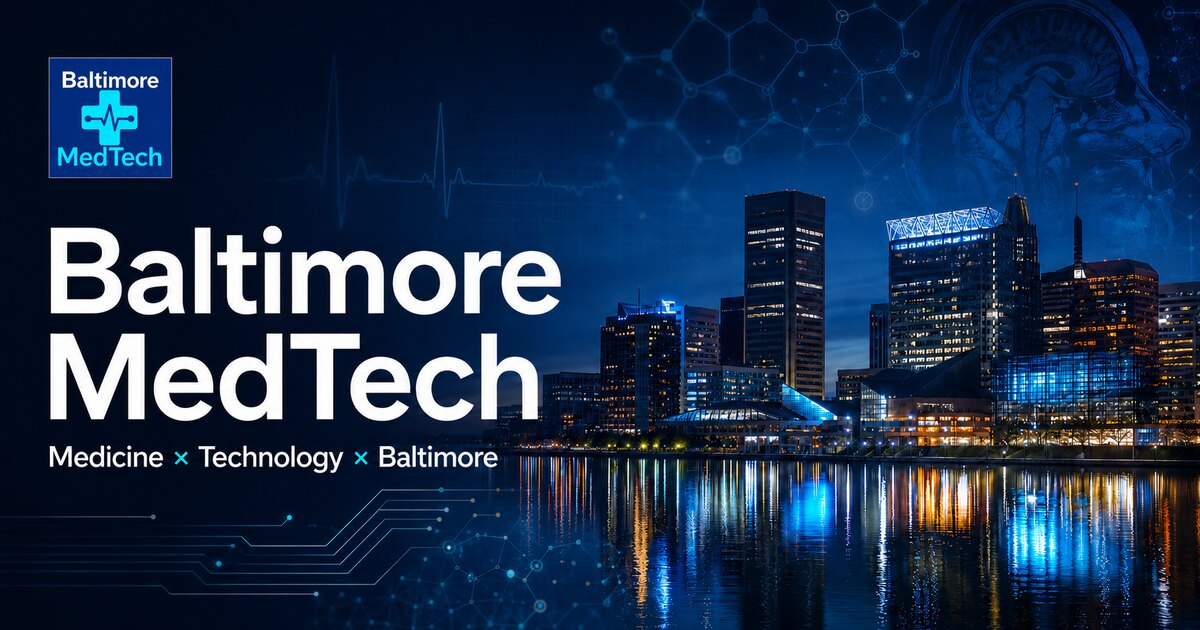
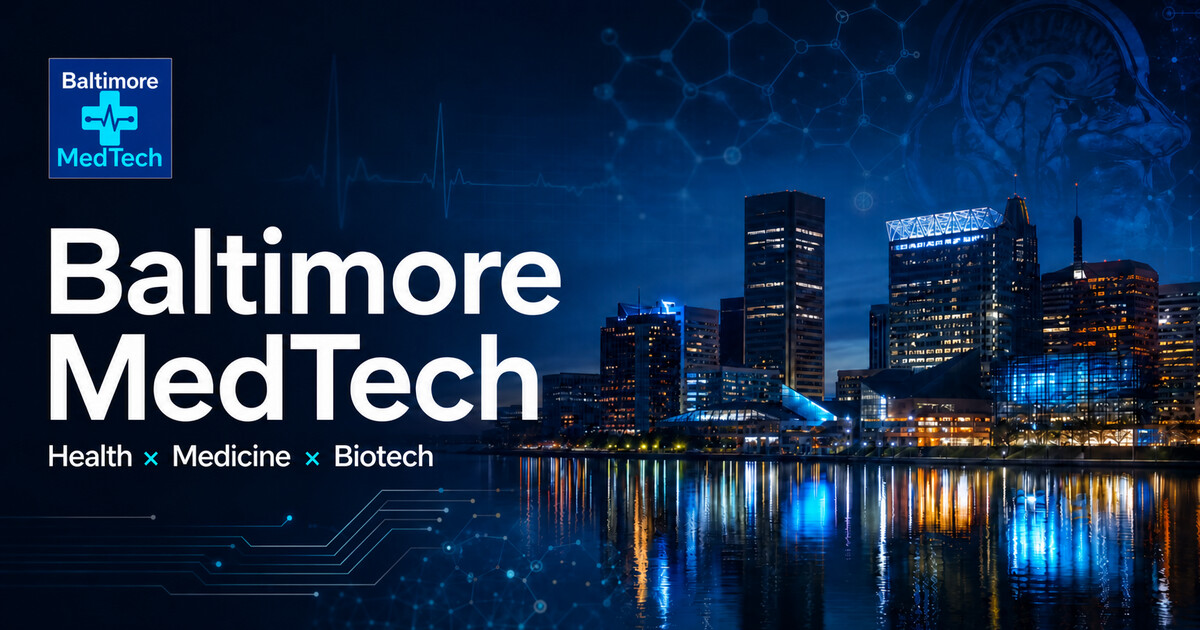
Brand MedTech community access and display original event pictures
[skip deploy] Release verified and deployed through the Docker Cloudflare tooling.

diff --git a/index.html b/index.html
@@ -6,12 +6,12 @@
     <title>Baltimore MedTech</title>
     <meta
       name="description"
-      content="Baltimore MedTech connects medicine, technology, research, and entrepreneurship to strengthen Baltimore's medical community and improve care."
+      content="Baltimore MedTech connects health, medicine, and biotech to strengthen Baltimore's medical community and improve care."
     />
     <meta property="og:title" content="Baltimore MedTech" />
     <meta
       property="og:description"
-      content="A recurring meetup connecting medicine, technology, research, and entrepreneurship in Baltimore."
+      content="A recurring meetup connecting health, medicine, and biotech in Baltimore."
     />
     <meta property="og:type" content="website" />
     <meta property="og:url" content="https://medtech.social/" />
@@ -21,10 +21,10 @@
     <meta property="og:image:type" content="image/jpeg" />
     <meta property="og:image:width" content="1200" />
     <meta property="og:image:height" content="630" />
-    <meta property="og:image:alt" content="Baltimore MedTech — Medicine × Technology × Baltimore" />
+    <meta property="og:image:alt" content="Baltimore MedTech — Health × Medicine × Biotech" />
     <meta name="twitter:card" content="summary_large_image" />
     <meta name="twitter:title" content="Baltimore MedTech" />
-    <meta name="twitter:description" content="A recurring meetup connecting medicine, technology, research, and entrepreneurship in Baltimore." />
+    <meta name="twitter:description" content="A recurring meetup connecting health, medicine, and biotech in Baltimore." />
     <meta name="twitter:image" content="https://medtech.social/assets/images/baltimore-medtech-social-preview-v2.jpg" />
     <link rel="icon" type="image/jpeg" href="/assets/images/baltimore-medtech-logo-square.jpg" />
     <link rel="apple-touch-icon" href="/assets/images/baltimore-medtech-logo-square.jpg" />
@@ -50,7 +50,7 @@
           <img src="/assets/images/baltimore-medtech-logo-square.jpg" alt="" />
           <span class="brand-copy">
             <strong>Baltimore MedTech</strong>
-            <small>Regional health innovation</small>
+            <small>Health × Medicine × Biotech</small>
           </span>
         </a>
         <button class="nav-toggle" type="button" aria-expanded="false" aria-controls="primary-nav">
@@ -72,7 +72,7 @@
             <svg viewBox="0 0 24 24" aria-hidden="true"><path d="M20.5 15.2A8.5 8.5 0 0 1 8.8 3.5 8.5 8.5 0 1 0 20.5 15.2Z"/></svg>
           </button>
         </div>
-          <a class="button nav-cta" href="https://codecollective.us/p/?portalProfile=baltimore-medtech">Join / Login</a>
+          <a class="button nav-cta" href="https://community.medtech.social/p/users/login">Member login</a>
         </nav>
       </div>
     </header>
@@ -86,7 +86,7 @@
         />
         <div class="hero-grid">
           <div class="hero-copy">
-            <p class="eyebrow">Medicine <span>&times;</span> Technology <span>&times;</span> Baltimore</p>
+            <p class="eyebrow">Health <span>&times;</span> Medicine <span>&times;</span> Biotech</p>
             <h1 id="hero-title">Better care starts with a better-connected city.</h1>
             <p>
               Baltimore MedTech brings clinicians, builders, researchers, and founders into one regional community—so
@@ -242,7 +242,7 @@
       <div class="site-footer-grid">
         <div>
           <a class="footer-brand" href="/">Baltimore MedTech</a>
-          <p>Connecting medicine, technology, research, and entrepreneurship across the Baltimore region.</p>
+          <p>Connecting health, medicine, and biotech across the Baltimore region.</p>
         </div>
         <div class="footer-links" aria-label="Footer navigation">
           <a href="/calendar.html">Calendar</a>
@@ -251,8 +251,8 @@
           <a href="#regional-glossary">Regional glossary</a>
         </div>
         <div class="footer-action">
-          <span>Already part of the community?</span>
-          <a href="https://codecollective.us/p/?portalProfile=baltimore-medtech">Join or log in <span aria-hidden="true">&nearr;</span></a>
+          <span>Your next connection starts here.</span>
+          <a href="https://community.medtech.social/p/users/register">Join Baltimore MedTech <span aria-hidden="true">&nearr;</span></a>
         </div>
       </div>
     </footer>

diff --git a/datasets.html b/datasets.html
@@ -15,8 +15,8 @@
 <body class="dataset-body">
 <a class="skip-link" href="#main-content">Skip to main content</a>
 <header class="site-header"><div class="site-header-inner">
-  <a class="brand" href="/" aria-label="Baltimore MedTech home"><img src="/assets/images/baltimore-medtech-logo-square.jpg" alt="" /><span class="brand-copy"><strong>Baltimore MedTech</strong><small>Regional health innovation</small></span></a>
-  <nav aria-label="Primary navigation"><a href="/calendar.html">Calendar</a><a href="/map.html">Map</a><a href="/taxonomy.html">Medical atlas</a><a aria-current="page" href="/datasets.html">Data sheets</a><a class="button nav-cta" href="https://codecollective.us/p/?portalProfile=baltimore-medtech">Join / Login</a></nav>
+  <a class="brand" href="/" aria-label="Baltimore MedTech home"><img src="/assets/images/baltimore-medtech-logo-square.jpg" alt="" /><span class="brand-copy"><strong>Baltimore MedTech</strong><small>Health × Medicine × Biotech</small></span></a>
+  <nav aria-label="Primary navigation"><a href="/calendar.html">Calendar</a><a href="/map.html">Map</a><a href="/taxonomy.html">Medical atlas</a><a aria-current="page" href="/datasets.html">Data sheets</a><a class="button nav-cta" href="https://community.medtech.social/p/users/login">Member login</a></nav>
 </div></header>
 
 <main class="dataset-catalog-page" id="main-content">
@@ -47,6 +47,6 @@
     <article><span>SNAPSHOT</span><h3>Versioned analytical inputs</h3><p>The Medical Science Field Atlas, standards indexes, strategy metrics, need-gap model, and allied-care extract remain reproducible repository assets with their own sheets.</p></article>
   </section>
 </main>
-<footer class="site-footer"><div class="site-footer-grid"><div><a class="footer-brand" href="/">Baltimore MedTech</a><p>Connecting medicine, technology, research, and entrepreneurship across Baltimore.</p></div><div class="footer-links"><a href="/datasets/medtech-meta-index.html">MedTech Meta Index</a><a href="/datasets.html">Data workbook</a><a href="/taxonomy.html">Medical Science Atlas</a><a href="/need-availability-distortions.html">Need gaps</a></div><div class="footer-action"><span>Trace every strategic claim back to a row and source.</span><a href="https://codecollective.us/p/?portalProfile=baltimore-medtech">Join the community <span aria-hidden="true">↗</span></a></div></div></footer>
+<footer class="site-footer"><div class="site-footer-grid"><div><a class="footer-brand" href="/">Baltimore MedTech</a><p>Connecting health, medicine, and biotech across Baltimore.</p></div><div class="footer-links"><a href="/datasets/medtech-meta-index.html">MedTech Meta Index</a><a href="/datasets.html">Data workbook</a><a href="/taxonomy.html">Medical Science Atlas</a><a href="/need-availability-distortions.html">Need gaps</a></div><div class="footer-action"><span>Trace every strategic claim back to a row and source.</span><a href="https://community.medtech.social/p/users/register">Join Baltimore MedTech <span aria-hidden="true">↗</span></a></div></div></footer>
 </body>
 </html>

diff --git a/datasets/allied-care-teams.html b/datasets/allied-care-teams.html
@@ -15,8 +15,8 @@
 <body class="dataset-body dataset-sheet-body">
 <a class="skip-link" href="#main-content">Skip to main content</a>
 <header class="site-header"><div class="site-header-inner">
-  <a class="brand" href="/" aria-label="Baltimore MedTech home"><img src="/assets/images/baltimore-medtech-logo-square.jpg" alt="" /><span class="brand-copy"><strong>Baltimore MedTech</strong><small>Regional health innovation</small></span></a>
-  <nav aria-label="Primary navigation"><a href="/calendar.html">Calendar</a><a href="/map.html">Map</a><a href="/taxonomy.html">Medical atlas</a><a aria-current="page" href="/datasets.html">Data sheets</a><a class="button nav-cta" href="https://codecollective.us/p/?portalProfile=baltimore-medtech">Join / Login</a></nav>
+  <a class="brand" href="/" aria-label="Baltimore MedTech home"><img src="/assets/images/baltimore-medtech-logo-square.jpg" alt="" /><span class="brand-copy"><strong>Baltimore MedTech</strong><small>Health × Medicine × Biotech</small></span></a>
+  <nav aria-label="Primary navigation"><a href="/calendar.html">Calendar</a><a href="/map.html">Map</a><a href="/taxonomy.html">Medical atlas</a><a aria-current="page" href="/datasets.html">Data sheets</a><a class="button nav-cta" href="https://community.medtech.social/p/users/login">Member login</a></nav>
 </div></header>
 
 <main class="dataset-sheet-page" id="main-content">
@@ -49,6 +49,6 @@
     <div class="dataset-sheet-tabs dataset-sheet-tabs-bottom"><a href="/datasets.html">Workbook index</a><span class="is-selected">Current dataset</span><a href="/need-availability-distortions.html">Need gaps</a></div>
   </section>
 </main>
-<footer class="site-footer"><div class="site-footer-grid"><div><a class="footer-brand" href="/">Baltimore MedTech</a><p>Connecting medicine, technology, research, and entrepreneurship across Baltimore.</p></div><div class="footer-links"><a href="/datasets.html">Data workbook</a><a href="/taxonomy.html">Medical atlas</a><a href="/need-availability-distortions.html">Need gaps</a></div><div class="footer-action"><span>Trace every strategic claim back to a row and source.</span><a href="https://codecollective.us/p/?portalProfile=baltimore-medtech">Join the community <span aria-hidden="true">↗</span></a></div></div></footer>
+<footer class="site-footer"><div class="site-footer-grid"><div><a class="footer-brand" href="/">Baltimore MedTech</a><p>Connecting health, medicine, and biotech across Baltimore.</p></div><div class="footer-links"><a href="/datasets.html">Data workbook</a><a href="/taxonomy.html">Medical atlas</a><a href="/need-availability-distortions.html">Need gaps</a></div><div class="footer-action"><span>Trace every strategic claim back to a row and source.</span><a href="https://community.medtech.social/p/users/register">Join Baltimore MedTech <span aria-hidden="true">↗</span></a></div></div></footer>
 </body>
 </html>

diff --git a/datasets/bls-oews-baltimore.html b/datasets/bls-oews-baltimore.html
@@ -15,8 +15,8 @@
 <body class="dataset-body dataset-sheet-body">
 <a class="skip-link" href="#main-content">Skip to main content</a>
 <header class="site-header"><div class="site-header-inner">
-  <a class="brand" href="/" aria-label="Baltimore MedTech home"><img src="/assets/images/baltimore-medtech-logo-square.jpg" alt="" /><span class="brand-copy"><strong>Baltimore MedTech</strong><small>Regional health innovation</small></span></a>
-  <nav aria-label="Primary navigation"><a href="/calendar.html">Calendar</a><a href="/map.html">Map</a><a href="/taxonomy.html">Medical atlas</a><a aria-current="page" href="/datasets.html">Data sheets</a><a class="button nav-cta" href="https://codecollective.us/p/?portalProfile=baltimore-medtech">Join / Login</a></nav>
+  <a class="brand" href="/" aria-label="Baltimore MedTech home"><img src="/assets/images/baltimore-medtech-logo-square.jpg" alt="" /><span class="brand-copy"><strong>Baltimore MedTech</strong><small>Health × Medicine × Biotech</small></span></a>
+  <nav aria-label="Primary navigation"><a href="/calendar.html">Calendar</a><a href="/map.html">Map</a><a href="/taxonomy.html">Medical atlas</a><a aria-current="page" href="/datasets.html">Data sheets</a><a class="button nav-cta" href="https://community.medtech.social/p/users/login">Member login</a></nav>
 </div></header>
 
 <main class="dataset-sheet-page" id="main-content">
@@ -49,6 +49,6 @@
     <div class="dataset-sheet-tabs dataset-sheet-tabs-bottom"><a href="/datasets.html">Workbook index</a><span class="is-selected">Current dataset</span><a href="/need-availability-distortions.html">Need gaps</a></div>
   </section>
 </main>
-<footer class="site-footer"><div class="site-footer-grid"><div><a class="footer-brand" href="/">Baltimore MedTech</a><p>Connecting medicine, technology, research, and entrepreneurship across Baltimore.</p></div><div class="footer-links"><a href="/datasets.html">Data workbook</a><a href="/taxonomy.html">Medical atlas</a><a href="/need-availability-distortions.html">Need gaps</a></div><div class="footer-action"><span>Trace every strategic claim back to a row and source.</span><a href="https://codecollective.us/p/?portalProfile=baltimore-medtech">Join the community <span aria-hidden="true">↗</span></a></div></div></footer>
+<footer class="site-footer"><div class="site-footer-grid"><div><a class="footer-brand" href="/">Baltimore MedTech</a><p>Connecting health, medicine, and biotech across Baltimore.</p></div><div class="footer-links"><a href="/datasets.html">Data workbook</a><a href="/taxonomy.html">Medical atlas</a><a href="/need-availability-distortions.html">Need gaps</a></div><div class="footer-action"><span>Trace every strategic claim back to a row and source.</span><a href="https://community.medtech.social/p/users/register">Join Baltimore MedTech <span aria-hidden="true">↗</span></a></div></div></footer>
 </body>
 </html>

diff --git a/datasets/clinical-code-systems.html b/datasets/clinical-code-systems.html
@@ -15,8 +15,8 @@
 <body class="dataset-body dataset-sheet-body">
 <a class="skip-link" href="#main-content">Skip to main content</a>
 <header class="site-header"><div class="site-header-inner">
-  <a class="brand" href="/" aria-label="Baltimore MedTech home"><img src="/assets/images/baltimore-medtech-logo-square.jpg" alt="" /><span class="brand-copy"><strong>Baltimore MedTech</strong><small>Regional health innovation</small></span></a>
-  <nav aria-label="Primary navigation"><a href="/calendar.html">Calendar</a><a href="/map.html">Map</a><a href="/taxonomy.html">Medical atlas</a><a aria-current="page" href="/datasets.html">Data sheets</a><a class="button nav-cta" href="https://codecollective.us/p/?portalProfile=baltimore-medtech">Join / Login</a></nav>
+  <a class="brand" href="/" aria-label="Baltimore MedTech home"><img src="/assets/images/baltimore-medtech-logo-square.jpg" alt="" /><span class="brand-copy"><strong>Baltimore MedTech</strong><small>Health × Medicine × Biotech</small></span></a>
+  <nav aria-label="Primary navigation"><a href="/calendar.html">Calendar</a><a href="/map.html">Map</a><a href="/taxonomy.html">Medical atlas</a><a aria-current="page" href="/datasets.html">Data sheets</a><a class="button nav-cta" href="https://community.medtech.social/p/users/login">Member login</a></nav>
 </div></header>
 
 <main class="dataset-sheet-page" id="main-content">
@@ -49,6 +49,6 @@
     <div class="dataset-sheet-tabs dataset-sheet-tabs-bottom"><a href="/datasets.html">Workbook index</a><span class="is-selected">Current dataset</span><a href="/need-availability-distortions.html">Need gaps</a></div>
   </section>
 </main>
-<footer class="site-footer"><div class="site-footer-grid"><div><a class="footer-brand" href="/">Baltimore MedTech</a><p>Connecting medicine, technology, research, and entrepreneurship across Baltimore.</p></div><div class="footer-links"><a href="/datasets.html">Data workbook</a><a href="/taxonomy.html">Medical atlas</a><a href="/need-availability-distortions.html">Need gaps</a></div><div class="footer-action"><span>Trace every strategic claim back to a row and source.</span><a href="https://codecollective.us/p/?portalProfile=baltimore-medtech">Join the community <span aria-hidden="true">↗</span></a></div></div></footer>
+<footer class="site-footer"><div class="site-footer-grid"><div><a class="footer-brand" href="/">Baltimore MedTech</a><p>Connecting health, medicine, and biotech across Baltimore.</p></div><div class="footer-links"><a href="/datasets.html">Data workbook</a><a href="/taxonomy.html">Medical atlas</a><a href="/need-availability-distortions.html">Need gaps</a></div><div class="footer-action"><span>Trace every strategic claim back to a row and source.</span><a href="https://community.medtech.social/p/users/register">Join Baltimore MedTech <span aria-hidden="true">↗</span></a></div></div></footer>
 </body>
 </html>

diff --git a/datasets/clinical-semantic-systems.html b/datasets/clinical-semantic-systems.html
@@ -15,8 +15,8 @@
 <body class="dataset-body dataset-sheet-body">
 <a class="skip-link" href="#main-content">Skip to main content</a>
 <header class="site-header"><div class="site-header-inner">
-  <a class="brand" href="/" aria-label="Baltimore MedTech home"><img src="/assets/images/baltimore-medtech-logo-square.jpg" alt="" /><span class="brand-copy"><strong>Baltimore MedTech</strong><small>Regional health innovation</small></span></a>
-  <nav aria-label="Primary navigation"><a href="/calendar.html">Calendar</a><a href="/map.html">Map</a><a href="/taxonomy.html">Medical atlas</a><a aria-current="page" href="/datasets.html">Data sheets</a><a class="button nav-cta" href="https://codecollective.us/p/?portalProfile=baltimore-medtech">Join / Login</a></nav>
+  <a class="brand" href="/" aria-label="Baltimore MedTech home"><img src="/assets/images/baltimore-medtech-logo-square.jpg" alt="" /><span class="brand-copy"><strong>Baltimore MedTech</strong><small>Health × Medicine × Biotech</small></span></a>
+  <nav aria-label="Primary navigation"><a href="/calendar.html">Calendar</a><a href="/map.html">Map</a><a href="/taxonomy.html">Medical atlas</a><a aria-current="page" href="/datasets.html">Data sheets</a><a class="button nav-cta" href="https://community.medtech.social/p/users/login">Member login</a></nav>
 </div></header>
 
 <main class="dataset-sheet-page" id="main-content">
@@ -49,6 +49,6 @@
     <div class="dataset-sheet-tabs dataset-sheet-tabs-bottom"><a href="/datasets.html">Workbook index</a><span class="is-selected">Current dataset</span><a href="/need-availability-distortions.html">Need gaps</a></div>
   </section>
 </main>
-<footer class="site-footer"><div class="site-footer-grid"><div><a class="footer-brand" href="/">Baltimore MedTech</a><p>Connecting medicine, technology, research, and entrepreneurship across Baltimore.</p></div><div class="footer-links"><a href="/datasets.html">Data workbook</a><a href="/taxonomy.html">Medical atlas</a><a href="/need-availability-distortions.html">Need gaps</a></div><div class="footer-action"><span>Trace every strategic claim back to a row and source.</span><a href="https://codecollective.us/p/?portalProfile=baltimore-medtech">Join the community <span aria-hidden="true">↗</span></a></div></div></footer>
+<footer class="site-footer"><div class="site-footer-grid"><div><a class="footer-brand" href="/">Baltimore MedTech</a><p>Connecting health, medicine, and biotech across Baltimore.</p></div><div class="footer-links"><a href="/datasets.html">Data workbook</a><a href="/taxonomy.html">Medical atlas</a><a href="/need-availability-distortions.html">Need gaps</a></div><div class="footer-action"><span>Trace every strategic claim back to a row and source.</span><a href="https://community.medtech.social/p/users/register">Join Baltimore MedTech <span aria-hidden="true">↗</span></a></div></div></footer>
 </body>
 </html>

diff --git a/datasets/cms-doctors-clinicians.html b/datasets/cms-doctors-clinicians.html
@@ -15,8 +15,8 @@
 <body class="dataset-body dataset-sheet-body">
 <a class="skip-link" href="#main-content">Skip to main content</a>
 <header class="site-header"><div class="site-header-inner">
-  <a class="brand" href="/" aria-label="Baltimore MedTech home"><img src="/assets/images/baltimore-medtech-logo-square.jpg" alt="" /><span class="brand-copy"><strong>Baltimore MedTech</strong><small>Regional health innovation</small></span></a>
-  <nav aria-label="Primary navigation"><a href="/calendar.html">Calendar</a><a href="/map.html">Map</a><a href="/taxonomy.html">Medical atlas</a><a aria-current="page" href="/datasets.html">Data sheets</a><a class="button nav-cta" href="https://codecollective.us/p/?portalProfile=baltimore-medtech">Join / Login</a></nav>
+  <a class="brand" href="/" aria-label="Baltimore MedTech home"><img src="/assets/images/baltimore-medtech-logo-square.jpg" alt="" /><span class="brand-copy"><strong>Baltimore MedTech</strong><small>Health × Medicine × Biotech</small></span></a>
+  <nav aria-label="Primary navigation"><a href="/calendar.html">Calendar</a><a href="/map.html">Map</a><a href="/taxonomy.html">Medical atlas</a><a aria-current="page" href="/datasets.html">Data sheets</a><a class="button nav-cta" href="https://community.medtech.social/p/users/login">Member login</a></nav>
 </div></header>
 
 <main class="dataset-sheet-page" id="main-content">
@@ -49,6 +49,6 @@
     <div class="dataset-sheet-tabs dataset-sheet-tabs-bottom"><a href="/datasets.html">Workbook index</a><span class="is-selected">Current dataset</span><a href="/need-availability-distortions.html">Need gaps</a></div>
   </section>
 </main>
-<footer class="site-footer"><div class="site-footer-grid"><div><a class="footer-brand" href="/">Baltimore MedTech</a><p>Connecting medicine, technology, research, and entrepreneurship across Baltimore.</p></div><div class="footer-links"><a href="/datasets.html">Data workbook</a><a href="/taxonomy.html">Medical atlas</a><a href="/need-availability-distortions.html">Need gaps</a></div><div class="footer-action"><span>Trace every strategic claim back to a row and source.</span><a href="https://codecollective.us/p/?portalProfile=baltimore-medtech">Join the community <span aria-hidden="true">↗</span></a></div></div></footer>
+<footer class="site-footer"><div class="site-footer-grid"><div><a class="footer-brand" href="/">Baltimore MedTech</a><p>Connecting health, medicine, and biotech across Baltimore.</p></div><div class="footer-links"><a href="/datasets.html">Data workbook</a><a href="/taxonomy.html">Medical atlas</a><a href="/need-availability-distortions.html">Need gaps</a></div><div class="footer-action"><span>Trace every strategic claim back to a row and source.</span><a href="https://community.medtech.social/p/users/register">Join Baltimore MedTech <span aria-hidden="true">↗</span></a></div></div></footer>
 </body>
 </html>

diff --git a/datasets/cms-provider-services.html b/datasets/cms-provider-services.html
@@ -15,8 +15,8 @@
 <body class="dataset-body dataset-sheet-body">
 <a class="skip-link" href="#main-content">Skip to main content</a>
 <header class="site-header"><div class="site-header-inner">
-  <a class="brand" href="/" aria-label="Baltimore MedTech home"><img src="/assets/images/baltimore-medtech-logo-square.jpg" alt="" /><span class="brand-copy"><strong>Baltimore MedTech</strong><small>Regional health innovation</small></span></a>
-  <nav aria-label="Primary navigation"><a href="/calendar.html">Calendar</a><a href="/map.html">Map</a><a href="/taxonomy.html">Medical atlas</a><a aria-current="page" href="/datasets.html">Data sheets</a><a class="button nav-cta" href="https://codecollective.us/p/?portalProfile=baltimore-medtech">Join / Login</a></nav>
+  <a class="brand" href="/" aria-label="Baltimore MedTech home"><img src="/assets/images/baltimore-medtech-logo-square.jpg" alt="" /><span class="brand-copy"><strong>Baltimore MedTech</strong><small>Health × Medicine × Biotech</small></span></a>
+  <nav aria-label="Primary navigation"><a href="/calendar.html">Calendar</a><a href="/map.html">Map</a><a href="/taxonomy.html">Medical atlas</a><a aria-current="page" href="/datasets.html">Data sheets</a><a class="button nav-cta" href="https://community.medtech.social/p/users/login">Member login</a></nav>
 </div></header>
 
 <main class="dataset-sheet-page" id="main-content">
@@ -49,6 +49,6 @@
     <div class="dataset-sheet-tabs dataset-sheet-tabs-bottom"><a href="/datasets.html">Workbook index</a><span class="is-selected">Current dataset</span><a href="/need-availability-distortions.html">Need gaps</a></div>
   </section>
 </main>
-<footer class="site-footer"><div class="site-footer-grid"><div><a class="footer-brand" href="/">Baltimore MedTech</a><p>Connecting medicine, technology, research, and entrepreneurship across Baltimore.</p></div><div class="footer-links"><a href="/datasets.html">Data workbook</a><a href="/taxonomy.html">Medical atlas</a><a href="/need-availability-distortions.html">Need gaps</a></div><div class="footer-action"><span>Trace every strategic claim back to a row and source.</span><a href="https://codecollective.us/p/?portalProfile=baltimore-medtech">Join the community <span aria-hidden="true">↗</span></a></div></div></footer>
+<footer class="site-footer"><div class="site-footer-grid"><div><a class="footer-brand" href="/">Baltimore MedTech</a><p>Connecting health, medicine, and biotech across Baltimore.</p></div><div class="footer-links"><a href="/datasets.html">Data workbook</a><a href="/taxonomy.html">Medical atlas</a><a href="/need-availability-distortions.html">Need gaps</a></div><div class="footer-action"><span>Trace every strategic claim back to a row and source.</span><a href="https://community.medtech.social/p/users/register">Join Baltimore MedTech <span aria-hidden="true">↗</span></a></div></div></footer>
 </body>
 </html>

diff --git a/datasets/hrsa-ahrf.html b/datasets/hrsa-ahrf.html
@@ -15,8 +15,8 @@
 <body class="dataset-body dataset-sheet-body">
 <a class="skip-link" href="#main-content">Skip to main content</a>
 <header class="site-header"><div class="site-header-inner">
-  <a class="brand" href="/" aria-label="Baltimore MedTech home"><img src="/assets/images/baltimore-medtech-logo-square.jpg" alt="" /><span class="brand-copy"><strong>Baltimore MedTech</strong><small>Regional health innovation</small></span></a>
-  <nav aria-label="Primary navigation"><a href="/calendar.html">Calendar</a><a href="/map.html">Map</a><a href="/taxonomy.html">Medical atlas</a><a aria-current="page" href="/datasets.html">Data sheets</a><a class="button nav-cta" href="https://codecollective.us/p/?portalProfile=baltimore-medtech">Join / Login</a></nav>
+  <a class="brand" href="/" aria-label="Baltimore MedTech home"><img src="/assets/images/baltimore-medtech-logo-square.jpg" alt="" /><span class="brand-copy"><strong>Baltimore MedTech</strong><small>Health × Medicine × Biotech</small></span></a>
+  <nav aria-label="Primary navigation"><a href="/calendar.html">Calendar</a><a href="/map.html">Map</a><a href="/taxonomy.html">Medical atlas</a><a aria-current="page" href="/datasets.html">Data sheets</a><a class="button nav-cta" href="https://community.medtech.social/p/users/login">Member login</a></nav>
 </div></header>
 
 <main class="dataset-sheet-page" id="main-content">
@@ -49,6 +49,6 @@
     <div class="dataset-sheet-tabs dataset-sheet-tabs-bottom"><a href="/datasets.html">Workbook index</a><span class="is-selected">Current dataset</span><a href="/need-availability-distortions.html">Need gaps</a></div>
   </section>
 </main>
-<footer class="site-footer"><div class="site-footer-grid"><div><a class="footer-brand" href="/">Baltimore MedTech</a><p>Connecting medicine, technology, research, and entrepreneurship across Baltimore.</p></div><div class="footer-links"><a href="/datasets.html">Data workbook</a><a href="/taxonomy.html">Medical atlas</a><a href="/need-availability-distortions.html">Need gaps</a></div><div class="footer-action"><span>Trace every strategic claim back to a row and source.</span><a href="https://codecollective.us/p/?portalProfile=baltimore-medtech">Join the community <span aria-hidden="true">↗</span></a></div></div></footer>
+<footer class="site-footer"><div class="site-footer-grid"><div><a class="footer-brand" href="/">Baltimore MedTech</a><p>Connecting health, medicine, and biotech across Baltimore.</p></div><div class="footer-links"><a href="/datasets.html">Data workbook</a><a href="/taxonomy.html">Medical atlas</a><a href="/need-availability-distortions.html">Need gaps</a></div><div class="footer-action"><span>Trace every strategic claim back to a row and source.</span><a href="https://community.medtech.social/p/users/register">Join Baltimore MedTech <span aria-hidden="true">↗</span></a></div></div></footer>
 </body>
 </html>

diff --git a/datasets/maryland-medicaid-provider-finder.html b/datasets/maryland-medicaid-provider-finder.html
@@ -15,8 +15,8 @@
 <body class="dataset-body dataset-sheet-body">
 <a class="skip-link" href="#main-content">Skip to main content</a>
 <header class="site-header"><div class="site-header-inner">
-  <a class="brand" href="/" aria-label="Baltimore MedTech home"><img src="/assets/images/baltimore-medtech-logo-square.jpg" alt="" /><span class="brand-copy"><strong>Baltimore MedTech</strong><small>Regional health innovation</small></span></a>
-  <nav aria-label="Primary navigation"><a href="/calendar.html">Calendar</a><a href="/map.html">Map</a><a href="/taxonomy.html">Medical atlas</a><a aria-current="page" href="/datasets.html">Data sheets</a><a class="button nav-cta" href="https://codecollective.us/p/?portalProfile=baltimore-medtech">Join / Login</a></nav>
+  <a class="brand" href="/" aria-label="Baltimore MedTech home"><img src="/assets/images/baltimore-medtech-logo-square.jpg" alt="" /><span class="brand-copy"><strong>Baltimore MedTech</strong><small>Health × Medicine × Biotech</small></span></a>
+  <nav aria-label="Primary navigation"><a href="/calendar.html">Calendar</a><a href="/map.html">Map</a><a href="/taxonomy.html">Medical atlas</a><a aria-current="page" href="/datasets.html">Data sheets</a><a class="button nav-cta" href="https://community.medtech.social/p/users/login">Member login</a></nav>
 </div></header>
 
 <main class="dataset-sheet-page" id="main-content">
@@ -49,6 +49,6 @@
     <div class="dataset-sheet-tabs dataset-sheet-tabs-bottom"><a href="/datasets.html">Workbook index</a><span class="is-selected">Current dataset</span><a href="/need-availability-distortions.html">Need gaps</a></div>
   </section>
 </main>
-<footer class="site-footer"><div class="site-footer-grid"><div><a class="footer-brand" href="/">Baltimore MedTech</a><p>Connecting medicine, technology, research, and entrepreneurship across Baltimore.</p></div><div class="footer-links"><a href="/datasets.html">Data workbook</a><a href="/taxonomy.html">Medical atlas</a><a href="/need-availability-distortions.html">Need gaps</a></div><div class="footer-action"><span>Trace every strategic claim back to a row and source.</span><a href="https://codecollective.us/p/?portalProfile=baltimore-medtech">Join the community <span aria-hidden="true">↗</span></a></div></div></footer>
+<footer class="site-footer"><div class="site-footer-grid"><div><a class="footer-brand" href="/">Baltimore MedTech</a><p>Connecting health, medicine, and biotech across Baltimore.</p></div><div class="footer-links"><a href="/datasets.html">Data workbook</a><a href="/taxonomy.html">Medical atlas</a><a href="/need-availability-distortions.html">Need gaps</a></div><div class="footer-action"><span>Trace every strategic claim back to a row and source.</span><a href="https://community.medtech.social/p/users/register">Join Baltimore MedTech <span aria-hidden="true">↗</span></a></div></div></footer>
 </body>
 </html>

diff --git a/datasets/maryland-medicaid-pvs.html b/datasets/maryland-medicaid-pvs.html
@@ -15,8 +15,8 @@
 <body class="dataset-body dataset-sheet-body">
 <a class="skip-link" href="#main-content">Skip to main content</a>
 <header class="site-header"><div class="site-header-inner">
-  <a class="brand" href="/" aria-label="Baltimore MedTech home"><img src="/assets/images/baltimore-medtech-logo-square.jpg" alt="" /><span class="brand-copy"><strong>Baltimore MedTech</strong><small>Regional health innovation</small></span></a>
-  <nav aria-label="Primary navigation"><a href="/calendar.html">Calendar</a><a href="/map.html">Map</a><a href="/taxonomy.html">Medical atlas</a><a aria-current="page" href="/datasets.html">Data sheets</a><a class="button nav-cta" href="https://codecollective.us/p/?portalProfile=baltimore-medtech">Join / Login</a></nav>
+  <a class="brand" href="/" aria-label="Baltimore MedTech home"><img src="/assets/images/baltimore-medtech-logo-square.jpg" alt="" /><span class="brand-copy"><strong>Baltimore MedTech</strong><small>Health × Medicine × Biotech</small></span></a>
+  <nav aria-label="Primary navigation"><a href="/calendar.html">Calendar</a><a href="/map.html">Map</a><a href="/taxonomy.html">Medical atlas</a><a aria-current="page" href="/datasets.html">Data sheets</a><a class="button nav-cta" href="https://community.medtech.social/p/users/login">Member login</a></nav>
 </div></header>
 
 <main class="dataset-sheet-page" id="main-content">
@@ -49,6 +49,6 @@
     <div class="dataset-sheet-tabs dataset-sheet-tabs-bottom"><a href="/datasets.html">Workbook index</a><span class="is-selected">Current dataset</span><a href="/need-availability-distortions.html">Need gaps</a></div>
   </section>
 </main>
-<footer class="site-footer"><div class="site-footer-grid"><div><a class="footer-brand" href="/">Baltimore MedTech</a><p>Connecting medicine, technology, research, and entrepreneurship across Baltimore.</p></div><div class="footer-links"><a href="/datasets.html">Data workbook</a><a href="/taxonomy.html">Medical atlas</a><a href="/need-availability-distortions.html">Need gaps</a></div><div class="footer-action"><span>Trace every strategic claim back to a row and source.</span><a href="https://codecollective.us/p/?portalProfile=baltimore-medtech">Join the community <span aria-hidden="true">↗</span></a></div></div></footer>
+<footer class="site-footer"><div class="site-footer-grid"><div><a class="footer-brand" href="/">Baltimore MedTech</a><p>Connecting health, medicine, and biotech across Baltimore.</p></div><div class="footer-links"><a href="/datasets.html">Data workbook</a><a href="/taxonomy.html">Medical atlas</a><a href="/need-availability-distortions.html">Need gaps</a></div><div class="footer-action"><span>Trace every strategic claim back to a row and source.</span><a href="https://community.medtech.social/p/users/register">Join Baltimore MedTech <span aria-hidden="true">↗</span></a></div></div></footer>
 </body>
 </html>

diff --git a/datasets/medical-science-field-atlas.html b/datasets/medical-science-field-atlas.html
@@ -15,8 +15,8 @@
 <body class="dataset-body dataset-sheet-body">
 <a class="skip-link" href="#main-content">Skip to main content</a>
 <header class="site-header"><div class="site-header-inner">
-  <a class="brand" href="/" aria-label="Baltimore MedTech home"><img src="/assets/images/baltimore-medtech-logo-square.jpg" alt="" /><span class="brand-copy"><strong>Baltimore MedTech</strong><small>Regional health innovation</small></span></a>
-  <nav aria-label="Primary navigation"><a href="/calendar.html">Calendar</a><a href="/map.html">Map</a><a href="/taxonomy.html">Medical atlas</a><a aria-current="page" href="/datasets.html">Data sheets</a><a class="button nav-cta" href="https://codecollective.us/p/?portalProfile=baltimore-medtech">Join / Login</a></nav>
+  <a class="brand" href="/" aria-label="Baltimore MedTech home"><img src="/assets/images/baltimore-medtech-logo-square.jpg" alt="" /><span class="brand-copy"><strong>Baltimore MedTech</strong><small>Health × Medicine × Biotech</small></span></a>
+  <nav aria-label="Primary navigation"><a href="/calendar.html">Calendar</a><a href="/map.html">Map</a><a href="/taxonomy.html">Medical atlas</a><a aria-current="page" href="/datasets.html">Data sheets</a><a class="button nav-cta" href="https://community.medtech.social/p/users/login">Member login</a></nav>
 </div></header>
 
 <main class="dataset-sheet-page" id="main-content">
@@ -49,6 +49,6 @@
     <div class="dataset-sheet-tabs dataset-sheet-tabs-bottom"><a href="/datasets.html">Workbook index</a><span class="is-selected">Current dataset</span><a href="/need-availability-distortions.html">Need gaps</a></div>
   </section>
 </main>
-<footer class="site-footer"><div class="site-footer-grid"><div><a class="footer-brand" href="/">Baltimore MedTech</a><p>Connecting medicine, technology, research, and entrepreneurship across Baltimore.</p></div><div class="footer-links"><a href="/datasets.html">Data workbook</a><a href="/taxonomy.html">Medical atlas</a><a href="/need-availability-distortions.html">Need gaps</a></div><div class="footer-action"><span>Trace every strategic claim back to a row and source.</span><a href="https://codecollective.us/p/?portalProfile=baltimore-medtech">Join the community <span aria-hidden="true">↗</span></a></div></div></footer>
+<footer class="site-footer"><div class="site-footer-grid"><div><a class="footer-brand" href="/">Baltimore MedTech</a><p>Connecting health, medicine, and biotech across Baltimore.</p></div><div class="footer-links"><a href="/datasets.html">Data workbook</a><a href="/taxonomy.html">Medical atlas</a><a href="/need-availability-distortions.html">Need gaps</a></div><div class="footer-action"><span>Trace every strategic claim back to a row and source.</span><a href="https://community.medtech.social/p/users/register">Join Baltimore MedTech <span aria-hidden="true">↗</span></a></div></div></footer>
 </body>
 </html>
